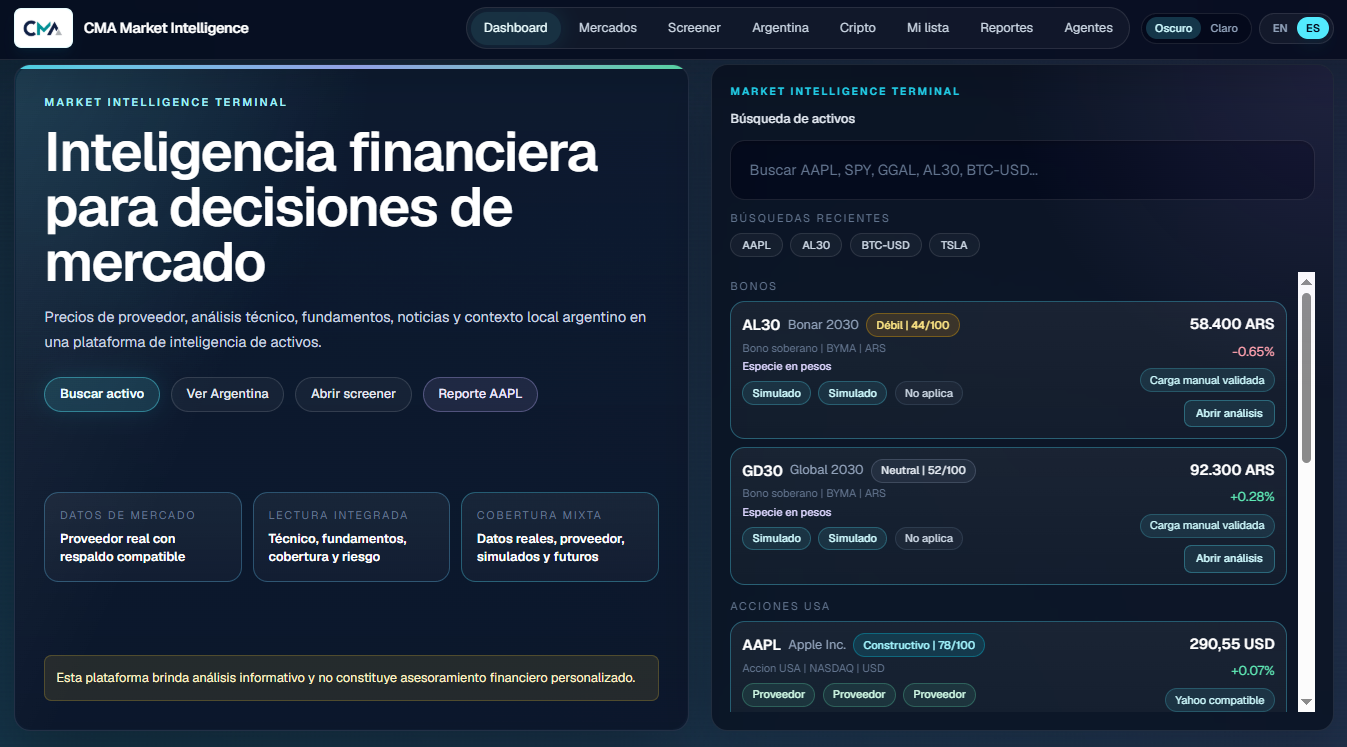
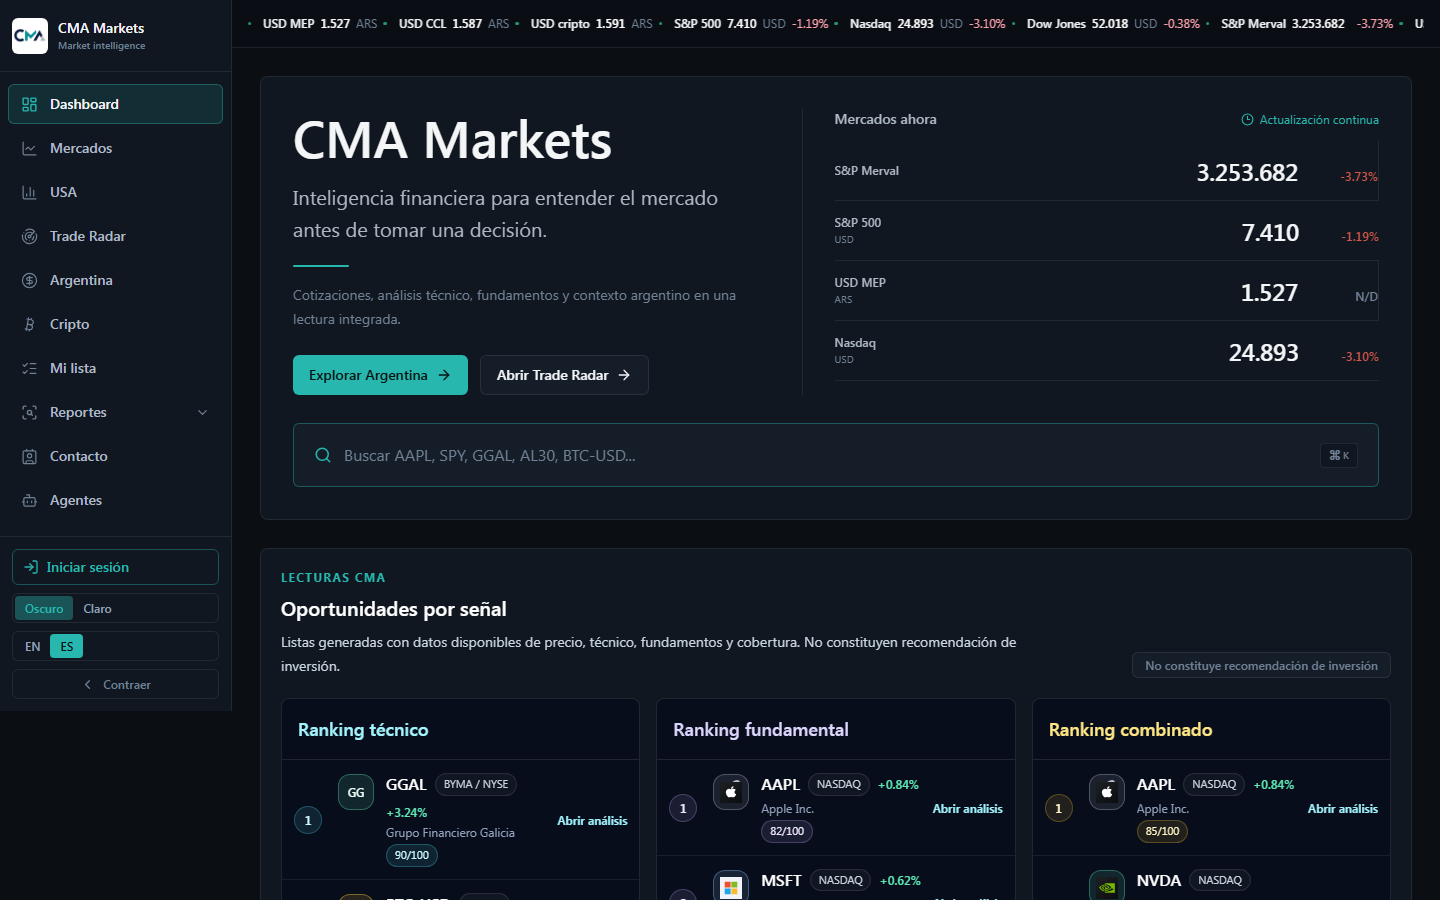
Update CMA Markets portfolio preview

diff --git a/src/content/portfolio.ts b/src/content/portfolio.ts
@@ -8,7 +8,7 @@ export const portfolioItems = [
     tags: ["Web", "Real Estate", "Panel Admin", "SEO", "Analytics"],
   },
   {
-    title: "CMA Market Intelligence",
+    title: "CMA Markets",
     type: "Producto interno en desarrollo",
     status: "Laboratorio",
     description:
